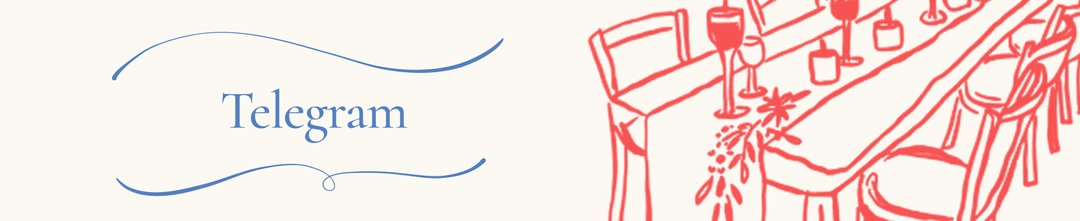
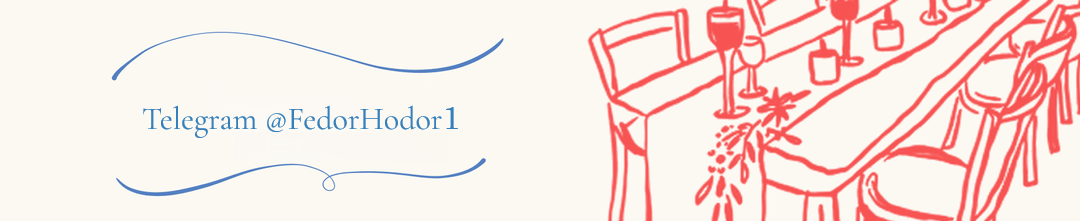
Add files via upload

Changed region(s): [[0.1222, 0.4072, 0.4278, 0.6516]]

diff --git a/index.html b/index.html
@@ -9,7 +9,8 @@ html, body { margin: 0 !important; padding: 0 !important; background: #fcf9f2 !i
 .block-banner + .block-banner, .block-banner + .block-item, .block-item + .block-banner, .block-item + .block-item { margin-top: 0 !important; }
 </style></head> <body> <div class="main base-theme main-theme is-ltr is-light">    <style> html {min-height: 100%}</style> <script>
 	window.account = {"account_id":10628680,"language_id":1,"language_code":"ru","language_code_account":"ru","main_page_id":16874143,"profile_id":13645543,"is_hidelink":1,"is_plus":0,"is_trial":0,"is_full_trial":0,"tariff_current":"business","utc_timezone":3,"currency_id":1,"plan_until":1784332800,"nickname":null,"has_nickname":0,"theme":{"heading":{"font":2643,"weight":0,"lineheights":[1.05,1,1],"letterspacings":[-0.7,-1.5,-1.8]},"screen":{"font":2643,"lineheights":[1.45,1.35,1.3],"letterspacings":[-0.3,-0.4,-0.4]},"link":{"radius":0,"hover":{"transparent":{"on":true}}},"bg":{"color2":"#417d97"},"block":{"radius":0,"pictures":{"bg":"#e3e0d2"}},"fonts":{"2643":{"n":"Inter","f":"sans-serif","w":"200,300,700","s":["cyrillic","cyrillic-ext"]}},"sections":{"1":{"heading":{"weight":1},"bg":{"color":"#e3e0d2","picture":{"picture_id":67673571,"color":"#e3e0d2","ext":"png","filename":"6/b/e/8/67673571.png?0","version":0,"width":1600,"height":2500},"height":2500},"padding":{"top":0,"bottom":0}},"_":1}},"menu":null,"menu_items":null,"profile_link":"https://loveee.ru","addons":{"codes":[{"cb":"yandexMetrikaInit","cookie":"analytics","data":{"id":44929738,"simple":true}}]},"locales":{"pages":"ru"},"avatar":{"path":"6/5/7/d/","title":"","bio":"","a":"65:png?1","is_hide_text":1},"currency":{"title":"в‚Ѕ","code":"RUB","format":"%p %c","precision":2},"products":[],"username":null,"current_page_id":17481197,"widgets":[],"custom_domain":"loveee.ru","domain":"taplink.ru","client":{"country":"ru","timestamp":1777974330},"locale":{"formats":{"date":"d.m.Y"},"current":"ru","direction":"ltr"},"number":{"decimal":".","thousands":" ","precision":2},"weight":{"decimal":".","thousands":" ","precision":3},"ts":"fd99a0c7","html":""};
-	window.data = {"page_id":17481197,"fields":[{"section":{"link":{"weight":0},"bg":{"color":"#fcf9f2"},"padding":{"top":0,"bottom":0},"blocks":["80729582","80729584","80729585","80729589","80729590","80729591","80729592","80729593","80729594","80729595","80729598","80729599","80729600","80729601","80729607","80729608","80729609","80729610","80729612","80729613","80729617","80729622","80735949","80735955","80735958","80735963","ba7f821e42fe","be9807341447","bf9f376d94ae","bef7f48454df","bf3de4261725","bfcd4108f31a","b213075ee754","b2f8c55faa49","80735965","80743887"],"id":null,"section_id":16615428},"items":[{"block_id":80729582,"options":{"p":{"filename":"9/7/7/3/68774418.png?0","width":1080,"height":1636},"is_stretch":true,"is_marginless":true,"padding":{"on":true,"top":0,"bottom":0}},"block_type_id":15,"block_type_name":"banner","is_visible":1,"addon_target":["link"],"stat":"25870e"},{"options":{"icon":-1,"break_size":135},"is_visible":true,"block_type_id":5,"block_type_name":"break","block_id":"ba7f821e42fe","addon_target":null},{"block_id":80729593,"options":{"p":{"filename":"6/c/0/5/68774357.png?0","width":1920,"height":1064},"is_stretch":true,"is_marginless":true,"padding":{"on":true,"top":0,"bottom":0}},"block_type_id":15,"block_type_name":"banner","is_visible":1,"addon_target":["link"],"stat":"3e0862"},{"block_id":80729594,"options":{"p":{"filename":"4/9/2/c/68774369.png?0","width":1920,"height":372},"is_stretch":true,"is_marginless":true,"padding":{"on":true,"top":0,"bottom":0}},"block_type_id":15,"block_type_name":"banner","is_visible":1,"addon_target":["link"],"anchor":"audiostop01","stat":"6666c2"},{"block_id":80729589,"options":{"p":{"filename":"0/e/1/c/68774370.png?0","width":1920,"height":372},"is_stretch":true,"is_marginless":true,"padding":{"on":true,"top":0,"bottom":0}},"block_type_id":15,"block_type_name":"banner","is_visible":1,"addon_target":["link"],"anchor":"audio01","stat":"b70ed5"},{"block_id":80729591,"options":{"p":{"filename":"6/7/e/f/68774371.png?0","width":1920,"height":1488},"is_stretch":true,"is_marginless":true,"padding":{"on":true,"top":0,"bottom":0}},"block_type_id":15,"block_type_name":"banner","is_visible":1,"addon_target":["link"],"stat":"3176a0"},{"block_id":80743887,"options":{"html":"\n<script> document.addEventListener(\"DOMContentLoaded\", function() { const audioElement = document.querySelector('[name=\"audio01\"]'); const audio = document.getElementById(\"myAudio01\");  if (audioElement && audio) { audioElement.onclick = function() { if (audio.paused) { audio.play();  this.classList.add(\"playing\"); } else {  audio.pause(); this.classList.remove(\"playing\"); }  };  } }); <\/script> <audio id=\"myAudio01\" style=\"opacity: 0; position: absolute\">\n\n<source src=\"https://nadiamarina.ru/audio/sara.mp3\" type=\"audio/mpeg\">\n\n</audio><style> [name=\"audiostop01\"] { position: absolute; width: 100%; } [name=\"audio01\"] { opacity: 1; transition: opacity 0.6s cubic-bezier(.77,-0.01,.36,1); cursor: pointer; } [name=\"audio01\"].playing { opacity: 0; } </style>"},"block_type_id":7,"block_type_name":"html","is_visible":1,"addon_target":null},{"block_id":80729590,"options":{"p":{"filename":"1/a/6/1/68774372.webp?0","width":1080,"height":1760},"is_stretch":true,"is_marginless":true,"padding":{"on":true,"top":0,"bottom":0}},"block_type_id":15,"block_type_name":"banner","is_visible":1,"addon_target":["link"],"stat":"98fb96"},{"block_id":80729592,"options":{"p":{"filename":"4/7/6/1/68774373.png?0","width":1920,"height":2396},"is_stretch":true,"is_marginless":true,"padding":{"on":true,"top":0,"bottom":0}},"block_type_id":15,"block_type_name":"banner","is_visible":1,"addon_target":["link"],"stat":"7014b1"},{"block_id":80729585,"options":{"p":{"filename":"0/8/5/a/68774374.png?0","width":1920,"height":400},"is_stretch":true,"is_marginless":true,"padding":{"on":true,"top":0,"bottom":0}},"block_type_id":15,"block_type_name":"banner","is_visible":1,"addon_target":["link"],"stat":"71c293"},{"options":{"icon":-1,"break_size":75},"is_visible":true,"block_type_id":5,"block_type_name":"break","block_id":"be9807341447","addon_target":null},{"block_id":80729584,"options":{"p":{"filename":"4/6/9/5/68774375.webp?0","width":1080,"height":1816},"is_stretch":true,"is_marginless":true,"padding":{"on":true,"top":0,"bottom":0}},"block_type_id":15,"block_type_name":"banner","is_visible":1,"addon_target":["link"],"stat":"ea6cc3"},{"block_id":80729595,"options":{"p":{"filename":"0/7/f/d/68774348.png?1","width":1920,"height":1700},"is_stretch":true,"is_marginless":true,"padding":{"on":true,"top":0,"bottom":0}},"block_type_id":15,"block_type_name":"banner","is_visible":1,"addon_target":["link"],"stat":"2153da"},{"block_id":80729599,"options":{"p":{"filename":"2/a/2/0/68774379.png?0","width":1920,"height":1584},"is_stretch":true,"is_marginless":true,"padding":{"on":true,"top":0,"bottom":0}},"block_type_id":15,"block_type_name":"banner","is_visible":1,"addon_target":["link"],"stat":"2077b3"},{"block_id":80729601,"options":{"p":{"filename":"9/4/4/4/68774380.png?0","width":1080,"height":1235},"is_stretch":true,"is_marginless":true,"padding":{"on":true,"top":0,"bottom":0}},"block_type_id":15,"block_type_name":"banner","is_visible":1,"addon_target":["link"],"stat":"c32948"},{"block_id":80729600,"options":{"link":{"value":"https://ohmywishes.com/"},"p":{"filename":"0/b/c/8/68774382.png?0","width":1080,"height":497},"is_link":true,"is_stretch":true,"is_marginless":true,"open_new_window":true,"padding":{"on":true,"top":0,"bottom":0}},"block_type_id":15,"block_type_name":"banner","is_visible":1,"addon_target":["link"],"stat":"65de7a"},{"block_id":80729598,"options":{"p":{"filename":"a/7/f/d/68774385.png?0","width":1920,"height":1704},"is_stretch":true,"is_marginless":true,"padding":{"on":true,"top":0,"bottom":0}},"block_type_id":15,"block_type_name":"banner","is_visible":1,"addon_target":["link"],"stat":"982e62"},{"block_id":80729607,"options":{"p":{"filename":"f/a/4/2/68774392.png?0","width":1080,"height":221},"is_stretch":true,"is_marginless":true,"padding":{"on":true,"top":0,"bottom":0}},"block_type_id":15,"block_type_name":"banner","is_visible":1,"addon_target":["link"],"stat":"8c92a4"},{"block_id":80729610,"options":{"p":{"filename":"3/2/4/2/68774394.png?0","width":1920,"height":2380},"is_stretch":true,"is_marginless":true,"padding":{"on":true,"top":0,"bottom":0}},"block_type_id":15,"block_type_name":"banner","is_visible":1,"addon_target":["link"],"stat":"659e96"},{"block_id":80729609,"options":{"link":{"value":"https://docs.google.com/forms/d/e/1FAIpQLScgUnUuUz_svglAJQ2AdZtG2Cd-jG3wC-IbTQ3QposS3vGNvw/viewform?usp=header"},"p":{"filename":"8/f/f/7/68774398.png?0","width":1920,"height":772},"is_link":true,"is_stretch":true,"is_marginless":true,"open_new_window":true,"padding":{"on":true,"top":0,"bottom":0}},"block_type_id":15,"block_type_name":"banner","is_visible":1,"addon_target":["link"],"stat":"58b01b"},{"block_id":80729608,"options":{"p":{"filename":"5/5/3/a/68774405.png?0","width":1920,"height":1800},"is_stretch":true,"is_marginless":true,"padding":{"on":true,"top":0,"bottom":0}},"block_type_id":15,"block_type_name":"banner","is_visible":1,"addon_target":["link"],"stat":"400f89"},{"block_id":80729612,"options":{"link":{"value":"https://t.me/nadia_likes_design"},"p":{"filename":"f/5/a/5/68774407.png?0","width":1920,"height":348},"is_link":true,"is_stretch":true,"is_marginless":true,"padding":{"on":true,"top":0,"bottom":0}},"block_type_id":15,"block_type_name":"banner","is_visible":1,"addon_target":["link"],"stat":"b92478"},{"block_id":80729613,"options":{"p":{"filename":"7/5/3/1/68774408.png?0","width":1080,"height":563},"is_stretch":true,"is_marginless":true,"padding":{"on":true,"top":0,"bottom":0}},"block_type_id":15,"block_type_name":"banner","is_visible":1,"addon_target":["link"],"stat":"f8ddb5"},{"block_id":80729617,"options":{"p":{"filename":"c/2/7/4/68774410.png?0","width":1920,"height":2524},"is_stretch":true,"is_marginless":true,"padding":{"on":true,"top":0,"bottom":0}},"block_type_id":15,"block_type_name":"banner","is_visible":1,"addon_target":["link"],"stat":"b56ce1"},{"options":{"icon":-1,"break_size":90},"is_visible":true,"block_type_id":5,"block_type_name":"break","block_id":"bf9f376d94ae","addon_target":null},{"block_id":80729622,"options":{"p":{"filename":"f/8/4/e/68774436.png?2","width":1600,"height":1048},"is_stretch":true,"is_marginless":true,"padding":{"on":true,"top":0,"bottom":0}},"block_type_id":15,"block_type_name":"banner","is_visible":1,"addon_target":["link"],"stat":"b13318"},{"options":{"icon":-1},"is_visible":true,"block_type_id":5,"block_type_name":"break","block_id":"bef7f48454df","addon_target":null},{"block_id":80735949,"options":{"link":{"type":"page","value":"invitations"},"p":{"filename":"1/a/4/2/68785145.png?0","width":1600,"height":212},"is_link":true,"is_stretch":true,"is_marginless":true,"padding":{"on":true,"top":0,"bottom":0}},"block_type_id":15,"block_type_name":"banner","is_visible":1,"addon_target":["link"],"stat":"d6cc6b"},{"options":{"icon":-1,"break_size":15},"is_visible":true,"block_type_id":5,"block_type_name":"break","block_id":"bf3de4261725","addon_target":null},{"block_id":80735955,"options":{"link":{"type":"page","value":"1017a9f"},"p":{"filename":"f/5/a/c/68785151.png?0","width":1600,"height":212},"is_link":true,"is_stretch":true,"is_marginless":true,"padding":{"on":true,"top":0,"bottom":0}},"block_type_id":15,"block_type_name":"banner","is_visible":1,"addon_target":["link"],"stat":"189f41"},{"options":{"icon":-1},"is_visible":true,"block_type_id":5,"block_type_name":"break","block_id":"b213075ee754","addon_target":null},{"block_id":80735958,"options":{"p":{"filename":"9/1/2/3/68785157.webp?0","width":1080,"height":1831},"is_stretch":true,"is_marginless":true,"padding":{"on":true,"top":0,"bottom":0}},"block_type_id":15,"block_type_name":"banner","is_visible":1,"addon_target":["link"],"stat":"5e2c41"},{"block_id":80735963,"options":{"link":{"type":"page","value":"1017a9f"},"p":{"filename":"e/a/1/0/68785165.png?0","width":1080,"height":159},"is_stretch":true,"is_marginless":true,"padding":{"on":true,"top":0,"bottom":0}},"block_type_id":15,"block_type_name":"banner","is_visible":1,"addon_target":["link"],"stat":"d33562"},{"options":{"icon":-1,"break_size":15},"is_visible":true,"block_type_id":5,"block_type_name":"break","block_id":"b2f8c55faa49","addon_target":null},{"block_id":80735965,"options":{"link":{"type":"page","value":"gazeta"},"p":{"filename":"a/b/c/4/68785167.png?1","width":1600,"height":212},"is_link":true,"is_stretch":true,"is_marginless":true,"padding":{"on":true,"top":0,"bottom":0}},"block_type_id":15,"block_type_name":"banner","is_visible":1,"addon_target":["link"],"stat":"fbaa27"},{"options":{"icon":-1,"break_size":90},"is_visible":true,"block_type_id":5,"block_type_name":"break","block_id":"bfcd4108f31a","addon_target":null}]}],"options":{"max_width":"xs"}};
+<script>
+	window.data = {"page_id":17481197,"fields":[{"section":{"link":{"weight":0},"bg":{"color":"#fcf9f2"},"padding":{"top":0,"bottom":0},"blocks":["80729582","80729584","80729585","80729589","80729590","80729591","80729592","80729593","80729594","80729595","80729598","80729599","80729601","80729607","80729609","80729610","80729617","80729622","80735949","80735955","80735958","80735963","ba7f821e42fe","be9807341447","bf9f376d94ae","bef7f48454df","bf3de4261725","bfcd4108f31a","b213075ee754","b2f8c55faa49","80735965","80743887"],"id":null,"section_id":16615428},"items":[{"block_id":80729582,"options":{"p":{"filename":"9/7/7/3/68774418.png?0","width":1080,"height":1636},"is_stretch":true,"is_marginless":true,"padding":{"on":true,"top":0,"bottom":0}},"block_type_id":15,"block_type_name":"banner","is_visible":1,"addon_target":["link"],"stat":"25870e"},{"options":{"icon":-1,"break_size":135},"is_visible":true,"block_type_id":5,"block_type_name":"break","block_id":"ba7f821e42fe","addon_target":null},{"block_id":80729593,"options":{"p":{"filename":"6/c/0/5/68774357.png?0","width":1920,"height":1064},"is_stretch":true,"is_marginless":true,"padding":{"on":true,"top":0,"bottom":0}},"block_type_id":15,"block_type_name":"banner","is_visible":1,"addon_target":["link"],"stat":"3e0862"},{"block_id":80729594,"options":{"p":{"filename":"4/9/2/c/68774369.png?0","width":1920,"height":372},"is_stretch":true,"is_marginless":true,"padding":{"on":true,"top":0,"bottom":0}},"block_type_id":15,"block_type_name":"banner","is_visible":1,"addon_target":["link"],"anchor":"audiostop01","stat":"6666c2"},{"block_id":80729589,"options":{"p":{"filename":"0/e/1/c/68774370.png?0","width":1920,"height":372},"is_stretch":true,"is_marginless":true,"padding":{"on":true,"top":0,"bottom":0}},"block_type_id":15,"block_type_name":"banner","is_visible":1,"addon_target":["link"],"anchor":"audio01","stat":"b70ed5"},{"block_id":80729591,"options":{"p":{"filename":"6/7/e/f/68774371.png?0","width":1920,"height":1488},"is_stretch":true,"is_marginless":true,"padding":{"on":true,"top":0,"bottom":0}},"block_type_id":15,"block_type_name":"banner","is_visible":1,"addon_target":["link"],"stat":"3176a0"},{"block_id":80743887,"options":{"html":"\n<script> document.addEventListener(\"DOMContentLoaded\", function() { const audioElement = document.querySelector('[name=\"audio01\"]'); const audio = document.getElementById(\"myAudio01\");  if (audioElement && audio) { audioElement.onclick = function() { if (audio.paused) { audio.play();  this.classList.add(\"playing\"); } else {  audio.pause(); this.classList.remove(\"playing\"); }  };  } }); <\/script> <audio id=\"myAudio01\" style=\"opacity: 0; position: absolute\">\n\n<source src=\"https://nadiamarina.ru/audio/sara.mp3\" type=\"audio/mpeg\">\n\n</audio><style> [name=\"audiostop01\"] { position: absolute; width: 100%; } [name=\"audio01\"] { opacity: 1; transition: opacity 0.6s cubic-bezier(.77,-0.01,.36,1); cursor: pointer; } [name=\"audio01\"].playing { opacity: 0; } </style>"},"block_type_id":7,"block_type_name":"html","is_visible":1,"addon_target":null},{"block_id":80729590,"options":{"p":{"filename":"1/a/6/1/68774372.webp?0","width":1080,"height":1760},"is_stretch":true,"is_marginless":true,"padding":{"on":true,"top":0,"bottom":0}},"block_type_id":15,"block_type_name":"banner","is_visible":1,"addon_target":["link"],"stat":"98fb96"},{"block_id":80729592,"options":{"p":{"filename":"4/7/6/1/68774373.png?0","width":1920,"height":2396},"is_stretch":true,"is_marginless":true,"padding":{"on":true,"top":0,"bottom":0}},"block_type_id":15,"block_type_name":"banner","is_visible":1,"addon_target":["link"],"stat":"7014b1"},{"block_id":80729585,"options":{"p":{"filename":"0/8/5/a/68774374.png?0","width":1920,"height":400},"is_stretch":true,"is_marginless":true,"padding":{"on":true,"top":0,"bottom":0}},"block_type_id":15,"block_type_name":"banner","is_visible":1,"addon_target":["link"],"stat":"71c293"},{"options":{"icon":-1,"break_size":75},"is_visible":true,"block_type_id":5,"block_type_name":"break","block_id":"be9807341447","addon_target":null},{"block_id":80729584,"options":{"p":{"filename":"4/6/9/5/68774375.webp?0","width":1080,"height":1816},"is_stretch":true,"is_marginless":true,"padding":{"on":true,"top":0,"bottom":0}},"block_type_id":15,"block_type_name":"banner","is_visible":1,"addon_target":["link"],"stat":"ea6cc3"},{"block_id":80729595,"options":{"p":{"filename":"0/7/f/d/68774348.png?1","width":1920,"height":1700},"is_stretch":true,"is_marginless":true,"padding":{"on":true,"top":0,"bottom":0}},"block_type_id":15,"block_type_name":"banner","is_visible":1,"addon_target":["link"],"stat":"2153da"},{"block_id":80729599,"options":{"p":{"filename":"2/a/2/0/68774379.png?0","width":1920,"height":1584},"is_stretch":true,"is_marginless":true,"padding":{"on":true,"top":0,"bottom":0}},"block_type_id":15,"block_type_name":"banner","is_visible":1,"addon_target":["link"],"stat":"2077b3"},{"block_id":80729601,"options":{"p":{"filename":"9/4/4/4/68774380.png?0","width":1080,"height":1235},"is_stretch":true,"is_marginless":true,"padding":{"on":true,"top":0,"bottom":0}},"block_type_id":15,"block_type_name":"banner","is_visible":1,"addon_target":["link"],"stat":"c32948"},{"block_id":80729598,"options":{"p":{"filename":"a/7/f/d/68774385.png?0","width":1920,"height":1704},"is_stretch":true,"is_marginless":true,"padding":{"on":true,"top":0,"bottom":0}},"block_type_id":15,"block_type_name":"banner","is_visible":1,"addon_target":["link"],"stat":"982e62"},{"block_id":80729607,"options":{"p":{"filename":"f/a/4/2/68774392.png?0","width":1080,"height":221},"is_stretch":true,"is_marginless":true,"padding":{"on":true,"top":0,"bottom":0}},"block_type_id":15,"block_type_name":"banner","is_visible":1,"addon_target":["link"],"stat":"8c92a4"},{"block_id":80729610,"options":{"p":{"filename":"3/2/4/2/68774394.png?0","width":1920,"height":2380},"is_stretch":true,"is_marginless":true,"padding":{"on":true,"top":0,"bottom":0}},"block_type_id":15,"block_type_name":"banner","is_visible":1,"addon_target":["link"],"stat":"659e96"},{"block_id":80729609,"options":{"link":{"value":"https://docs.google.com/forms/d/1IvtHxhDQbqlFfTq80SNkSqM-Q-9UcZWotx2EE4iRNws/viewform?edit_requested=true"},"p":{"filename":"8/f/f/7/68774398.png?0","width":1920,"height":772},"is_link":true,"is_stretch":true,"is_marginless":true,"open_new_window":true,"padding":{"on":true,"top":0,"bottom":0}},"block_type_id":15,"block_type_name":"banner","is_visible":1,"addon_target":["link"],"stat":"58b01b"},{"block_id":80729617,"options":{"p":{"filename":"c/2/7/4/68774410.png?0","width":1920,"height":2524},"is_stretch":true,"is_marginless":true,"padding":{"on":true,"top":0,"bottom":0}},"block_type_id":15,"block_type_name":"banner","is_visible":1,"addon_target":["link"],"stat":"b56ce1"},{"options":{"icon":-1,"break_size":90},"is_visible":true,"block_type_id":5,"block_type_name":"break","block_id":"bf9f376d94ae","addon_target":null},{"block_id":80729622,"options":{"p":{"filename":"f/8/4/e/68774436.png?2","width":1600,"height":1048},"is_stretch":true,"is_marginless":true,"padding":{"on":true,"top":0,"bottom":0}},"block_type_id":15,"block_type_name":"banner","is_visible":1,"addon_target":["link"],"stat":"b13318"},{"options":{"icon":-1},"is_visible":true,"block_type_id":5,"block_type_name":"break","block_id":"bef7f48454df","addon_target":null},{"block_id":80735949,"options":{"link":{"type":"page","value":"invitations"},"p":{"filename":"1/a/4/2/68785145.png?0","width":1600,"height":212},"is_link":true,"is_stretch":true,"is_marginless":true,"padding":{"on":true,"top":0,"bottom":0}},"block_type_id":15,"block_type_name":"banner","is_visible":1,"addon_target":["link"],"stat":"d6cc6b"},{"options":{"icon":-1,"break_size":15},"is_visible":true,"block_type_id":5,"block_type_name":"break","block_id":"bf3de4261725","addon_target":null},{"block_id":80735955,"options":{"link":{"type":"page","value":"1017a9f"},"p":{"filename":"f/5/a/c/68785151.png?0","width":1600,"height":212},"is_link":true,"is_stretch":true,"is_marginless":true,"padding":{"on":true,"top":0,"bottom":0}},"block_type_id":15,"block_type_name":"banner","is_visible":1,"addon_target":["link"],"stat":"189f41"},{"options":{"icon":-1},"is_visible":true,"block_type_id":5,"block_type_name":"break","block_id":"b213075ee754","addon_target":null},{"block_id":80735958,"options":{"p":{"filename":"9/1/2/3/68785157.webp?0","width":1080,"height":1831},"is_stretch":true,"is_marginless":true,"padding":{"on":true,"top":0,"bottom":0}},"block_type_id":15,"block_type_name":"banner","is_visible":1,"addon_target":["link"],"stat":"5e2c41"},{"block_id":80735963,"options":{"link":{"type":"page","value":"1017a9f"},"p":{"filename":"e/a/1/0/68785165.png?0","width":1080,"height":159},"is_stretch":true,"is_marginless":true,"padding":{"on":true,"top":0,"bottom":0}},"block_type_id":15,"block_type_name":"banner","is_visible":1,"addon_target":["link"],"stat":"d33562"},{"options":{"icon":-1,"break_size":15},"is_visible":true,"block_type_id":5,"block_type_name":"break","block_id":"b2f8c55faa49","addon_target":null},{"block_id":80735965,"options":{"link":{"type":"page","value":"gazeta"},"p":{"filename":"a/b/c/4/68785167.png?1","width":1600,"height":212},"is_link":true,"is_stretch":true,"is_marginless":true,"padding":{"on":true,"top":0,"bottom":0}},"block_type_id":15,"block_type_name":"banner","is_visible":1,"addon_target":["link"],"stat":"fbaa27"},{"options":{"icon":-1,"break_size":90},"is_visible":true,"block_type_id":5,"block_type_name":"break","block_id":"bfcd4108f31a","addon_target":null}]}],"options":{"max_width":"xs"}};
 </script> <script type="text/javascript" src="./loveee.ru_files/frontend.js.загружено"></script> <div class="page vue"><div class="page-background is-device-lg" page_filename="european"><div class="page-background-overlay"><div><style>.main-theme{--block-radius:0px;--bg-card-content:#e3e0d2;--theme-font-family:'Inter',sans-serif;--theme-font-weight:300;--theme-font-weight-bold:700;--theme-heading-color:#000000;--theme-heading-font-family:'Inter',sans-serif;--theme-heading-font-weight:200;--theme-heading-font-weight-bold:300;--theme-heading-text-transform:none;--theme-title-font-weight:200;--theme-input-radius:0px;--theme-input-border-focused-color:#7795f8;--theme-checkbox-checked-background:#7795f8;--theme-checkbox-checked-color:#fff;--theme-block-pictures-button-text-color:#0383de;--theme-block-pictures-text-color:#000000;--theme-block-pictures-title-color:#000000;--theme-block-pictures-background:#e3e0d2;--theme-block-pictures-nav-color:#53a3e0;--theme-block-pictures-background-text:#000;--theme-block-pictures-background-text-digs:0,0,0;--theme-block-pictures-background-text-light:1;--theme-block-card-input-flat-bg:#1919190f;--theme-block-card-input-flat-bg-focused:#1919191f;--theme-avatar-title-color:#777777;--theme-avatar-title-font-family:'Roboto',sans-serif;--theme-avatar-title-size:16px;--theme-avatar-title-lineheight:1.2;--theme-avatar-title-letterspacing:0px;--theme-avatar-title-weight:700;--theme-avatar-bio-color:#777777;--theme-avatar-bio-font-family:'Roboto',sans-serif;--theme-avatar-bio-size:16px;--theme-avatar-bio-lineheight:1.2;--theme-avatar-bio-letterspacing:0px;--theme-avatar-bio-weight:400;--theme-text-color:#000000;--theme-text-color-digs:0,0,0;--theme-text-color-contrast:#fff;--theme-link-shadow-params:none;--theme-link-shadow-color:#00000033;--theme-link-title-color:#ffffff;--theme-link-title-fontsize:16px;--theme-link-title-lineheight:1.2;--theme-link-title-letterspacing:0px;--theme-link-title-transform:none;--theme-link-title-font-family:'Inter',sans-serif;--theme-link-title-font-weight:300;--theme-link-subtitle-color:#ffffff;--theme-link-subtitle-fontsize:14px;--theme-link-subtitle-lineheight:1.2;--theme-link-subtitle-letterspacing:0px;--theme-link-subtitle-font-family:'Roboto',sans-serif;--theme-link-background:#7795f8;--theme-link-background-digs:119,149,248;--theme-link-contrast-color:#fff;--theme-link-border-color:#7795f8;--theme-link-border-radius:0px;--theme-link-border-radius-one:0px;--theme-link-border-width:2px;--theme-link-border-width-offset:2px;--theme-link-offset:10px;--theme-link-backdrop-filter:null;--theme-text-size-h3:24px;--theme-text-size-h2:30px;--theme-text-size-h1:50px;--theme-text-lineheight-h3:1.05;--theme-text-lineheight-h2:1;--theme-text-lineheight-h1:1;--theme-text-letterspacing-h3:-0.7px;--theme-text-letterspacing-h2:-1.5px;--theme-text-letterspacing-h1:-1.8px;--theme-text-size-sm:14px;--theme-text-size-md:17px;--theme-text-size-lg:20px;--theme-text-lineheight-sm:1.45;--theme-text-lineheight-md:1.35;--theme-text-lineheight-lg:1.3;--theme-text-letterspacing-sm:-0.3px;--theme-text-letterspacing-md:-0.4px;--theme-text-letterspacing-lg:-0.4px}
 .main-theme .block-item .btn-link > div, .main-theme.btn-socials span {flex-grow: 1}
 .main-theme.base-theme {--theme-panel-button-radius:5px}
@@ -26,7 +27,7 @@ html, body { margin: 0 !important; padding: 0 !important; background: #fcf9f2 !i
 
 <source src="https://nadiamarina.ru/audio/sara.mp3" type="audio/mpeg">
 
-</audio><style type="text/css"> [name="audiostop01"] { position: absolute; width: 100%; } [name="audio01"] { opacity: 1; transition: opacity 0.6s cubic-bezier(.77,-0.01,.36,1); cursor: pointer; } [name="audio01"].playing { opacity: 0; } </style></div></div></div><div class="block-item block-banner has-pb-0 has-pt-0 b-80729590"><div><div class="has-marginless" section="[object Object]" block_id="80729590" account="[object Object]" theme="[object Object]" index="7" page_filename="european" device-class="lg"><div><div class="block-banner-inner"><div class="picture-container lazy is-loaded" style="padding-top: 162.963%; background: url(&quot;./loveee.ru_files/68774372-date-updated.png&quot;) 0px 0px / 100% no-repeat;"></div></div></div></div></div></div><div class="block-item block-banner has-pb-0 has-pt-0 b-80729592"><div><div class="has-marginless" section="[object Object]" block_id="80729592" account="[object Object]" theme="[object Object]" index="8" page_filename="european" device-class="lg"><div><div class="block-banner-inner"><div class="picture-container lazy is-loaded" style="padding-top: 124.792%; background: url(&quot;./loveee.ru_files/68774373-location-clean.png&quot;) 0px 0px / 100% no-repeat;"></div></div></div></div></div></div><div class="block-item block-banner has-pb-0 has-pt-0 b-80729585"><div><div class="has-marginless" section="[object Object]" block_id="80729585" account="[object Object]" theme="[object Object]" index="9" page_filename="european" device-class="lg"><div><div class="block-banner-inner"><div class="picture-container lazy is-loaded" style="padding-top: 20.8333%; background: url(&quot;./loveee.ru_files/68774374-map-blue.png&quot;) 0px 0px / 100% no-repeat;"></div></div></div></div></div></div><div class="block-item block-break b-be9807341447"><div><div class="block-break" section="[object Object]" block_id="be9807341447" block="[object Object]" account="[object Object]" theme="[object Object]" index="10" page_id="17481197" page_filename="european" device-class="lg" mode="view"><div class="block-break-inner has-icon is-invisible" style="height: 75px; margin: -7px 0px;"><span></span></div></div></div></div><div class="block-item block-banner has-pb-0 has-pt-0 b-80729584"><div><div class="has-marginless" section="[object Object]" block_id="80729584" account="[object Object]" theme="[object Object]" index="11" page_filename="european" device-class="lg"><div><div class="block-banner-inner"><div class="picture-container lazy is-loaded" style="padding-top: 168.148%; background: url(&quot;./loveee.ru_files/68774375-program-updated-v3.png&quot;) 0px 0px / 100% no-repeat;"></div></div></div></div></div></div><div class="block-item block-banner has-pb-0 has-pt-0 b-80729595"><div><div class="has-marginless" section="[object Object]" block_id="80729595" account="[object Object]" theme="[object Object]" index="12" page_filename="european" device-class="lg"><div><div class="block-banner-inner"><div data-src="./loveee.ru_files/68774348.png" class="picture-container lazy" style="padding-top: 88.5417%; background: 0px 0px / 100% no-repeat;"></div></div></div></div></div></div><div class="block-item block-banner has-pb-0 has-pt-0 b-80729599"><div><div class="has-marginless" section="[object Object]" block_id="80729599" account="[object Object]" theme="[object Object]" index="13" page_filename="european" device-class="lg"><div><div class="block-banner-inner"><div data-src="./loveee.ru_files/68774379-colors-updated.png" class="picture-container lazy" style="padding-top: 82.5%; background: 0px 0px / 100% no-repeat;"></div></div></div></div></div></div><div class="block-item block-banner has-pb-0 has-pt-0 b-80729601"><div><div class="has-marginless" section="[object Object]" block_id="80729601" account="[object Object]" theme="[object Object]" index="14" page_filename="european" device-class="lg"><div><div class="block-banner-inner"><div data-src="./loveee.ru_files/68774380-wishes-updated.png" class="picture-container lazy" style="padding-top: 114.352%; background: 0px 0px / 100% no-repeat;"></div></div></div></div></div></div><div class="block-item block-banner has-pb-0 has-pt-0 b-80729600"><div><div class="has-marginless" section="[object Object]" block_id="80729600" account="[object Object]" theme="[object Object]" index="15" page_filename="european" device-class="lg"><div><div class="block-banner-inner"><div data-src="./loveee.ru_files/68774382-wishlist-blank.png" class="picture-container lazy" style="padding-top: 46.0185%; background: 0px 0px / 100% no-repeat;"></div></div></div></div></div></div><div class="block-item block-banner has-pb-0 has-pt-0 b-80729598"><div><div class="has-marginless" section="[object Object]" block_id="80729598" account="[object Object]" theme="[object Object]" index="16" page_filename="european" device-class="lg"><div><div class="block-banner-inner"><div data-src="./loveee.ru_files/68774385-host-fedor.png" class="picture-container lazy" style="padding-top: 88.75%; background: 0px 0px / 100% no-repeat;"></div></div></div></div></div></div><div class="block-item block-banner has-pb-0 has-pt-0 b-80729607"><div><div class="has-marginless" section="[object Object]" block_id="80729607" account="[object Object]" theme="[object Object]" index="17" page_filename="european" device-class="lg"><div><div class="block-banner-inner"><div data-src="./loveee.ru_files/68774392.png" class="picture-container lazy" style="padding-top: 20.463%; background: 0px 0px / 100% no-repeat;"></div></div></div></div></div></div><div class="block-item block-banner has-pb-0 has-pt-0 b-80729610"><div><div class="has-marginless" section="[object Object]" block_id="80729610" account="[object Object]" theme="[object Object]" index="18" page_filename="european" device-class="lg"><div><div class="block-banner-inner"><div data-src="./loveee.ru_files/68774394.png" class="picture-container lazy" style="padding-top: 123.958%; background: 0px 0px / 100% no-repeat;"></div></div></div></div></div></div><div class="block-item block-banner has-pb-0 has-pt-0 b-80729609"><div><div class="has-marginless" section="[object Object]" block_id="80729609" account="[object Object]" theme="[object Object]" index="19" page_filename="european" device-class="lg"><div><a rel="noopener" target="_blank" href="https://docs.google.com/forms/d/e/1FAIpQLScgUnUuUz_svglAJQ2AdZtG2Cd-jG3wC-IbTQ3QposS3vGNvw/viewform?usp=header"><div class="block-banner-inner"><div data-src="./loveee.ru_files/68774398.png" class="picture-container lazy" style="padding-top: 40.2083%; background: 0px 0px / 100% no-repeat;"></div></div></a></div></div></div></div><div class="block-item block-banner has-pb-0 has-pt-0 b-80729608"><div><div class="has-marginless" section="[object Object]" block_id="80729608" account="[object Object]" theme="[object Object]" index="20" page_filename="european" device-class="lg"><div><div class="block-banner-inner"><div data-src="./loveee.ru_files/68774405.png" class="picture-container lazy" style="padding-top: 93.75%; background: 0px 0px / 100% no-repeat;"></div></div></div></div></div></div><div class="block-item block-banner has-pb-0 has-pt-0 b-80729612"><div><div class="has-marginless" section="[object Object]" block_id="80729612" account="[object Object]" theme="[object Object]" index="21" page_filename="european" device-class="lg"><div><a rel="noopener" target="_top" href="https://t.me/nadia_likes_design"><div class="block-banner-inner"><div data-src="./loveee.ru_files/68774407.png" class="picture-container lazy" style="padding-top: 18.125%; background: 0px 0px / 100% no-repeat;"></div></div></a></div></div></div></div><div class="block-item block-banner has-pb-0 has-pt-0 b-80729613"><div><div class="has-marginless" section="[object Object]" block_id="80729613" account="[object Object]" theme="[object Object]" index="22" page_filename="european" device-class="lg"><div><div class="block-banner-inner"><div data-src="./loveee.ru_files/68774408.png" class="picture-container lazy" style="padding-top: 52.1296%; background: 0px 0px / 100% no-repeat;"></div></div></div></div></div></div><div class="block-item block-banner has-pb-0 has-pt-0 b-80729617"><div><div class="has-marginless" section="[object Object]" block_id="80729617" account="[object Object]" theme="[object Object]" index="23" page_filename="european" device-class="lg"><div><div class="block-banner-inner"><div data-src="./loveee.ru_files/68774410-final-updated.png" class="picture-container lazy" style="padding-top: 131.458%; background: 0px 0px / 100% no-repeat;"></div></div></div></div></div></div><div class="block-item block-break b-bf9f376d94ae"><div><div class="block-break" section="[object Object]" block_id="bf9f376d94ae" block="[object Object]" account="[object Object]" theme="[object Object]" index="24" page_id="17481197" page_filename="european" device-class="lg" mode="view"><div class="block-break-inner has-icon is-invisible" style="height: 90px; margin: -7px 0px;"><span></span></div></div></div></div> <!----></div></div> <!----></div></div></div></div></div></div> <!----></main></div></div> <!----></div> <div><!----></div>  <!----></div></div></div></div> </div>  <div style="position:absolute;top:-1000px;z-index: -1"><div id="autoResizeTextareaCopy" style="position:fixed;white-space:pre-wrap;box-sizing: border-box; -moz-box-sizing: border-box;  -ms-box-sizing: border-box; -webkit-box-sizing: border-box; visibility: hidden;"></div></div><img class="stat" src="./loveee.ru_files/44929738" cipq16rcl=""><script>
+</audio><style type="text/css"> [name="audiostop01"] { position: absolute; width: 100%; } [name="audio01"] { opacity: 1; transition: opacity 0.6s cubic-bezier(.77,-0.01,.36,1); cursor: pointer; } [name="audio01"].playing { opacity: 0; } </style></div></div></div><div class="block-item block-banner has-pb-0 has-pt-0 b-80729590"><div><div class="has-marginless" section="[object Object]" block_id="80729590" account="[object Object]" theme="[object Object]" index="7" page_filename="european" device-class="lg"><div><div class="block-banner-inner"><div class="picture-container lazy is-loaded" style="padding-top: 162.963%; background: url(&quot;./loveee.ru_files/68774372-date-updated.png&quot;) 0px 0px / 100% no-repeat;"></div></div></div></div></div></div><div class="block-item block-banner has-pb-0 has-pt-0 b-80729592"><div><div class="has-marginless" section="[object Object]" block_id="80729592" account="[object Object]" theme="[object Object]" index="8" page_filename="european" device-class="lg"><div><div class="block-banner-inner"><div class="picture-container lazy is-loaded" style="padding-top: 145.625%; background: url(&quot;./loveee.ru_files/Наше торжество-combined.png&quot;) 0px 0px / 100% no-repeat;"></div></div></div></div></div></div><div class="block-item block-banner has-pb-0 has-pt-0 b-80729585"><div><div class="has-marginless" section="[object Object]" block_id="80729585" account="[object Object]" theme="[object Object]" index="9" page_filename="european" device-class="lg"><div><div class="block-banner-inner"><div class="picture-container lazy is-loaded" style="padding-top: 20.8333%; background: url(&quot;./loveee.ru_files/68774374-map-blue.png&quot;) 0px 0px / 100% no-repeat;"></div></div></div></div></div></div><div class="block-item block-break b-be9807341447"><div><div class="block-break" section="[object Object]" block_id="be9807341447" block="[object Object]" account="[object Object]" theme="[object Object]" index="10" page_id="17481197" page_filename="european" device-class="lg" mode="view"><div class="block-break-inner has-icon is-invisible" style="height: 75px; margin: -7px 0px;"><span></span></div></div></div></div><div class="block-item block-banner has-pb-0 has-pt-0 b-80729584"><div><div class="has-marginless" section="[object Object]" block_id="80729584" account="[object Object]" theme="[object Object]" index="11" page_filename="european" device-class="lg"><div><div class="block-banner-inner"><div class="picture-container lazy is-loaded" style="padding-top: 168.148%; background: url(&quot;./loveee.ru_files/расписание.png&quot;) 0px 0px / 100% no-repeat;"></div></div></div></div></div></div><div class="block-item block-banner has-pb-0 has-pt-0 b-80729595"><div><div class="has-marginless" section="[object Object]" block_id="80729595" account="[object Object]" theme="[object Object]" index="12" page_filename="european" device-class="lg"><div><div class="block-banner-inner"><div data-src="./loveee.ru_files/68774348.png" class="picture-container lazy" style="padding-top: 88.5417%; background: 0px 0px / 100% no-repeat;"></div></div></div></div></div></div><div class="block-item block-banner has-pb-0 has-pt-0 b-80729599"><div><div class="has-marginless" section="[object Object]" block_id="80729599" account="[object Object]" theme="[object Object]" index="13" page_filename="european" device-class="lg"><div><div class="block-banner-inner"><div data-src="./loveee.ru_files/68774379-colors-family-men-v2.png" class="picture-container lazy" style="padding-top: 82.5%; background: 0px 0px / 100% no-repeat;"></div></div></div></div></div></div><div class="block-item block-banner has-pb-0 has-pt-0 b-80729601"><div><div class="has-marginless" section="[object Object]" block_id="80729601" account="[object Object]" theme="[object Object]" index="14" page_filename="european" device-class="lg"><div><div class="block-banner-inner"><div data-src="./loveee.ru_files/Пожелания.png" class="picture-container lazy" style="padding-top: 114.352%; background: 0px 0px / 100% no-repeat;"></div></div></div></div></div></div><div class="block-item block-banner has-pb-0 has-pt-0 b-80729600"><div><div class="has-marginless" section="[object Object]" block_id="80729600" account="[object Object]" theme="[object Object]" index="15" page_filename="european" device-class="lg"><div><div class="block-banner-inner"><div data-src="./loveee.ru_files/пожеланий_низ.png" class="picture-container lazy" style="padding-top: 46.0185%; background: 0px 0px / 100% no-repeat;"></div></div></div></div></div></div><div class="block-item block-banner has-pb-0 has-pt-0 b-80729598"><div><div class="has-marginless" section="[object Object]" block_id="80729598" account="[object Object]" theme="[object Object]" index="16" page_filename="european" device-class="lg"><div><div class="block-banner-inner"><div data-src="./loveee.ru_files/68774385-host-fedor.png" class="picture-container lazy" style="padding-top: 88.75%; background: 0px 0px / 100% no-repeat;"></div></div></div></div></div></div><div class="block-item block-banner has-pb-0 has-pt-0 b-80729607"><div><div class="has-marginless" section="[object Object]" block_id="80729607" account="[object Object]" theme="[object Object]" index="17" page_filename="european" device-class="lg"><div><div class="block-banner-inner"><div data-src="./loveee.ru_files/68774392.png" class="picture-container lazy" style="padding-top: 20.463%; background: 0px 0px / 100% no-repeat;"></div></div></div></div></div></div><div class="block-item block-banner has-pb-0 has-pt-0 b-80729610"><div><div class="has-marginless" section="[object Object]" block_id="80729610" account="[object Object]" theme="[object Object]" index="18" page_filename="european" device-class="lg"><div><div class="block-banner-inner"><div data-src="./loveee.ru_files/68774394.png" class="picture-container lazy" style="padding-top: 123.958%; background: 0px 0px / 100% no-repeat;"></div></div></div></div></div></div><div class="block-item block-banner has-pb-0 has-pt-0 b-80729609"><div><div class="has-marginless" section="[object Object]" block_id="80729609" account="[object Object]" theme="[object Object]" index="19" page_filename="european" device-class="lg"><div><a rel="noopener" target="_blank" href="https://docs.google.com/forms/d/1IvtHxhDQbqlFfTq80SNkSqM-Q-9UcZWotx2EE4iRNws/viewform?edit_requested=true"><div class="block-banner-inner"><div data-src="./loveee.ru_files/68774398.png" class="picture-container lazy" style="padding-top: 40.2083%; background: 0px 0px / 100% no-repeat;"></div></div></a></div></div></div></div><div class="block-item block-banner has-pb-0 has-pt-0 b-80729617"><div><div class="has-marginless" section="[object Object]" block_id="80729617" account="[object Object]" theme="[object Object]" index="23" page_filename="european" device-class="lg"><div><div class="block-banner-inner"><div data-src="./loveee.ru_files/68774410-final-updated.png" class="picture-container lazy" style="padding-top: 131.458%; background: 0px 0px / 100% no-repeat;"></div></div></div></div></div></div><div class="block-item block-break b-bf9f376d94ae"><div><div class="block-break" section="[object Object]" block_id="bf9f376d94ae" block="[object Object]" account="[object Object]" theme="[object Object]" index="24" page_id="17481197" page_filename="european" device-class="lg" mode="view"><div class="block-break-inner has-icon is-invisible" style="height: 90px; margin: -7px 0px;"><span></span></div></div></div></div> <!----></div></div> <!----></div></div></div></div></div></div> <!----></main></div></div> <!----></div> <div><!----></div>  <!----></div></div></div></div> </div>  <div style="position:absolute;top:-1000px;z-index: -1"><div id="autoResizeTextareaCopy" style="position:fixed;white-space:pre-wrap;box-sizing: border-box; -moz-box-sizing: border-box;  -ms-box-sizing: border-box; -webkit-box-sizing: border-box; visibility: hidden;"></div></div><img class="stat" src="./loveee.ru_files/44929738" cipq16rcl=""><script>
 document.addEventListener("DOMContentLoaded", function () {
   var images = {
     "b-80729582": "./loveee.ru_files/68774418-maxim-valeria.png",
@@ -35,20 +36,18 @@ document.addEventListener("DOMContentLoaded", function () {
     "b-80729589": "./loveee.ru_files/68774370.png",
     "b-80729591": "./loveee.ru_files/68774371.png",
     "b-80729590": "./loveee.ru_files/68774372-date-updated.png",
-    "b-80729592": "./loveee.ru_files/68774373-location-clean.png",
+    "b-80729592": "./loveee.ru_files/Наше торжество-combined.png",
     "b-80729585": "./loveee.ru_files/68774374-map-blue.png",
-    "b-80729584": "./loveee.ru_files/68774375-program-updated-v3.png",
+    "b-80729584": "./loveee.ru_files/расписание.png",
     "b-80729595": "./loveee.ru_files/68774348.png",
-    "b-80729599": "./loveee.ru_files/68774379-colors-updated.png",
-    "b-80729601": "./loveee.ru_files/68774380-wishes-updated.png",
-    "b-80729600": "./loveee.ru_files/68774382-wishlist-blank.png",
+    "b-80729599": "./loveee.ru_files/68774379-colors-family-men-v2.png",
+    "b-80729601": "./loveee.ru_files/Пожелания.png",
+    "b-80729600": "./loveee.ru_files/пожеланий_низ.png",
+
     "b-80729598": "./loveee.ru_files/68774385-host-fedor.png",
     "b-80729607": "./loveee.ru_files/68774392.png",
     "b-80729610": "./loveee.ru_files/68774394.png",
     "b-80729609": "./loveee.ru_files/68774398.png",
-    "b-80729608": "./loveee.ru_files/68774405.png",
-    "b-80729612": "./loveee.ru_files/68774407.png",
-    "b-80729613": "./loveee.ru_files/68774408.png",
     "b-80729617": "./loveee.ru_files/68774410-final-updated.png"
   };
   var mapUrl = "https://yandex.com/profile/118944614793?lang=ru&no-distribution=1&view-state=mini&source=wizbiz_new_map_single";
@@ -84,15 +83,31 @@ document.addEventListener("DOMContentLoaded", function () {
     }
     var spacerBlock = document.querySelector(".b-be9807341447");
     if (spacerBlock) {
+      spacerBlock.style.display = "none";
       spacerBlock.style.cursor = "default";
       spacerBlock.onclick = null;
       spacerBlock.removeAttribute("title");
     }
     var mapBlock = document.querySelector(".b-80729585");
     if (mapBlock) {
-      mapBlock.style.cursor = "pointer";
-      mapBlock.setAttribute("title", "Открыть карту");
-      mapBlock.onclick = function () { window.open(mapUrl, "_blank", "noopener"); };
+      mapBlock.style.display = "none";
+      mapBlock.onclick = null;
+    }
+    var oldMapLink = locationBlock && locationBlock.querySelector(".map-hotspot");
+    if (oldMapLink) oldMapLink.remove();
+    if (locationBlock) {
+      var inner = locationBlock.querySelector(".block-banner-inner");
+      if (inner) {
+        inner.style.position = "relative";
+        var mapLink = document.createElement("a");
+        mapLink.className = "map-hotspot";
+        mapLink.href = mapUrl;
+        mapLink.target = "_blank";
+        mapLink.rel = "noopener";
+        mapLink.title = "Открыть карту";
+        mapLink.style.cssText = "position:absolute;left:49%;top:65.5%;width:32%;height:11%;display:block;z-index:5;cursor:pointer;";
+        inner.appendChild(mapLink);
+      }
     }
 
     var tail = document.querySelector(".b-80729622");
@@ -108,3 +123,16 @@ document.addEventListener("DOMContentLoaded", function () {
   setTimeout(apply, 2500);
 });
 </script></body></html>
+
+
+
+
+
+
+
+
+
+
+
+
+